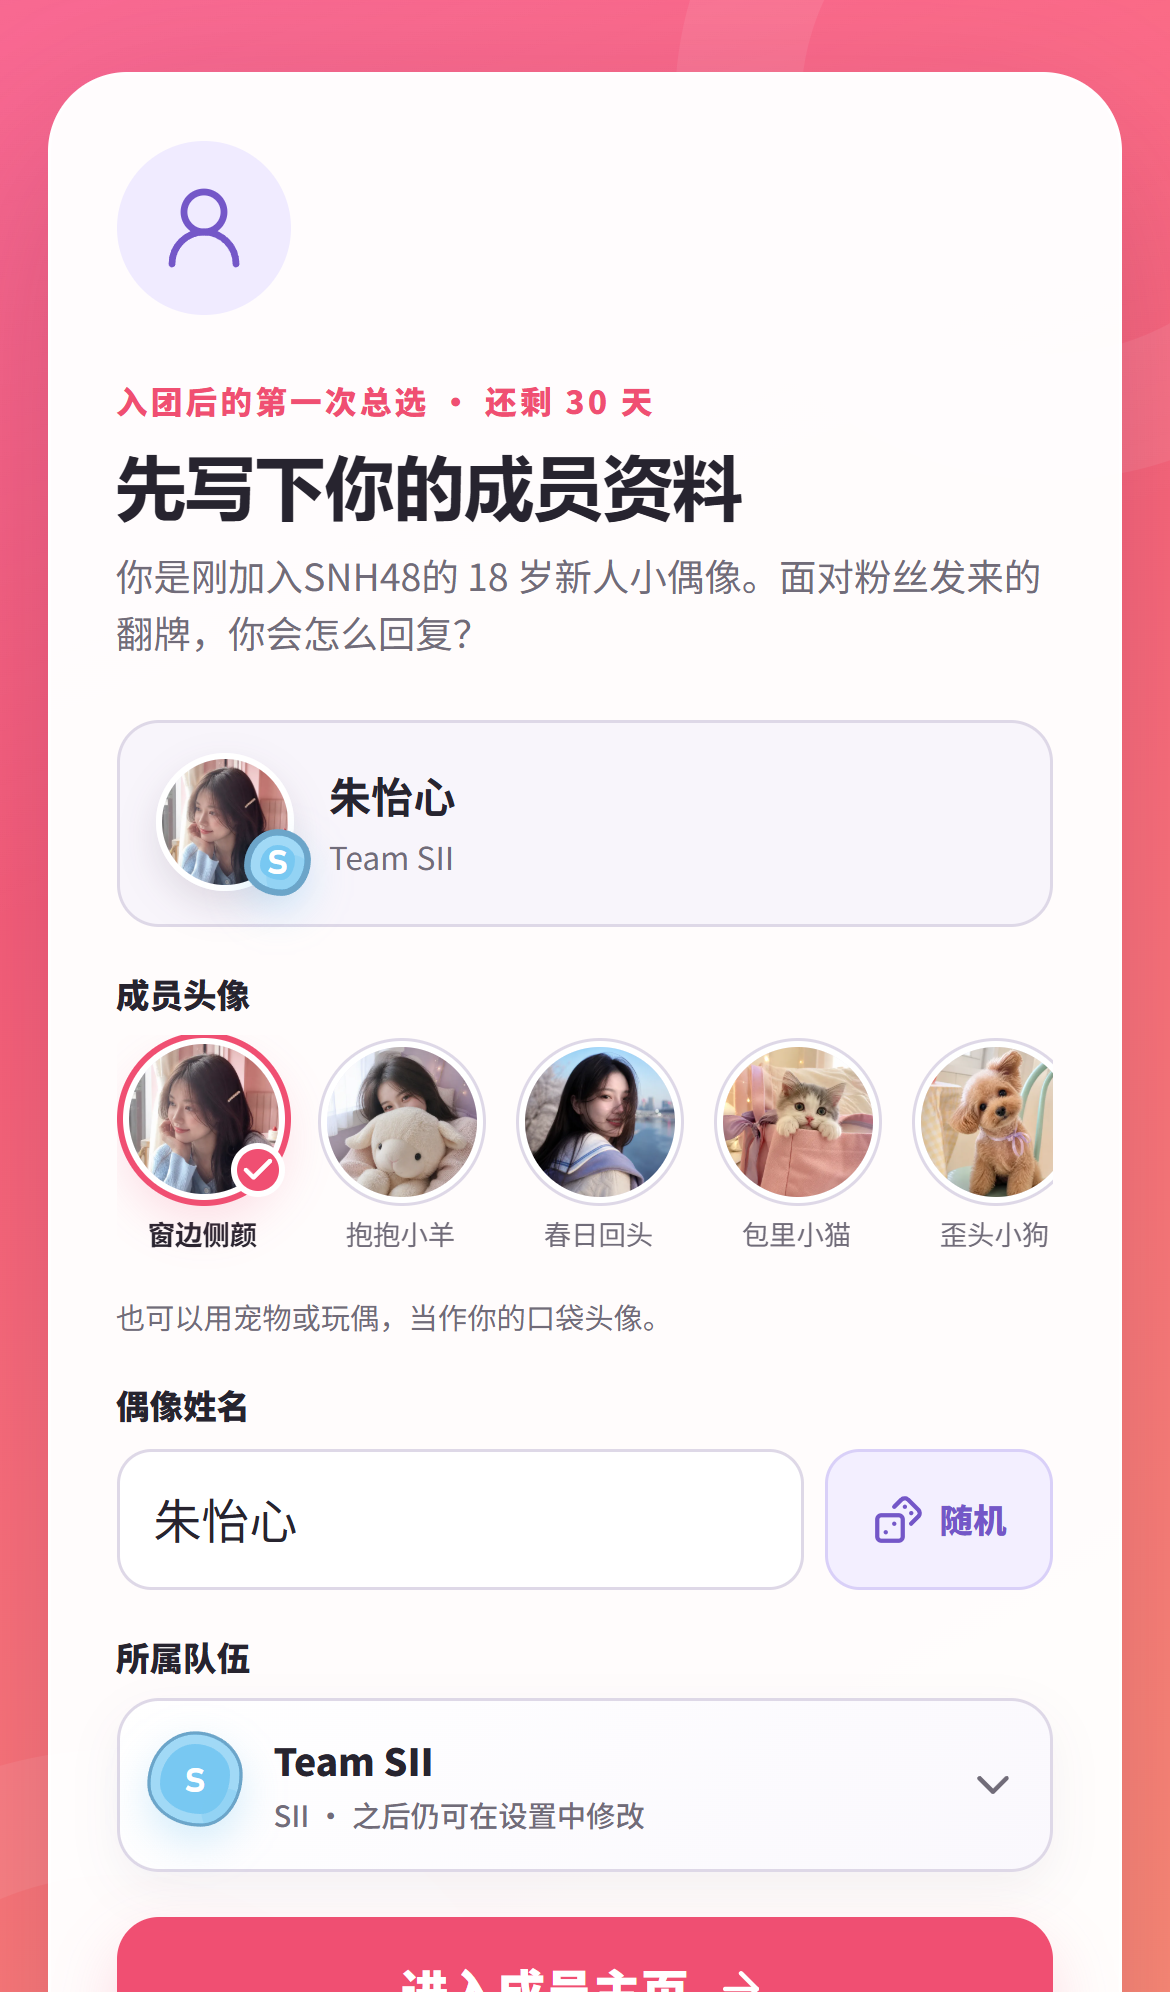
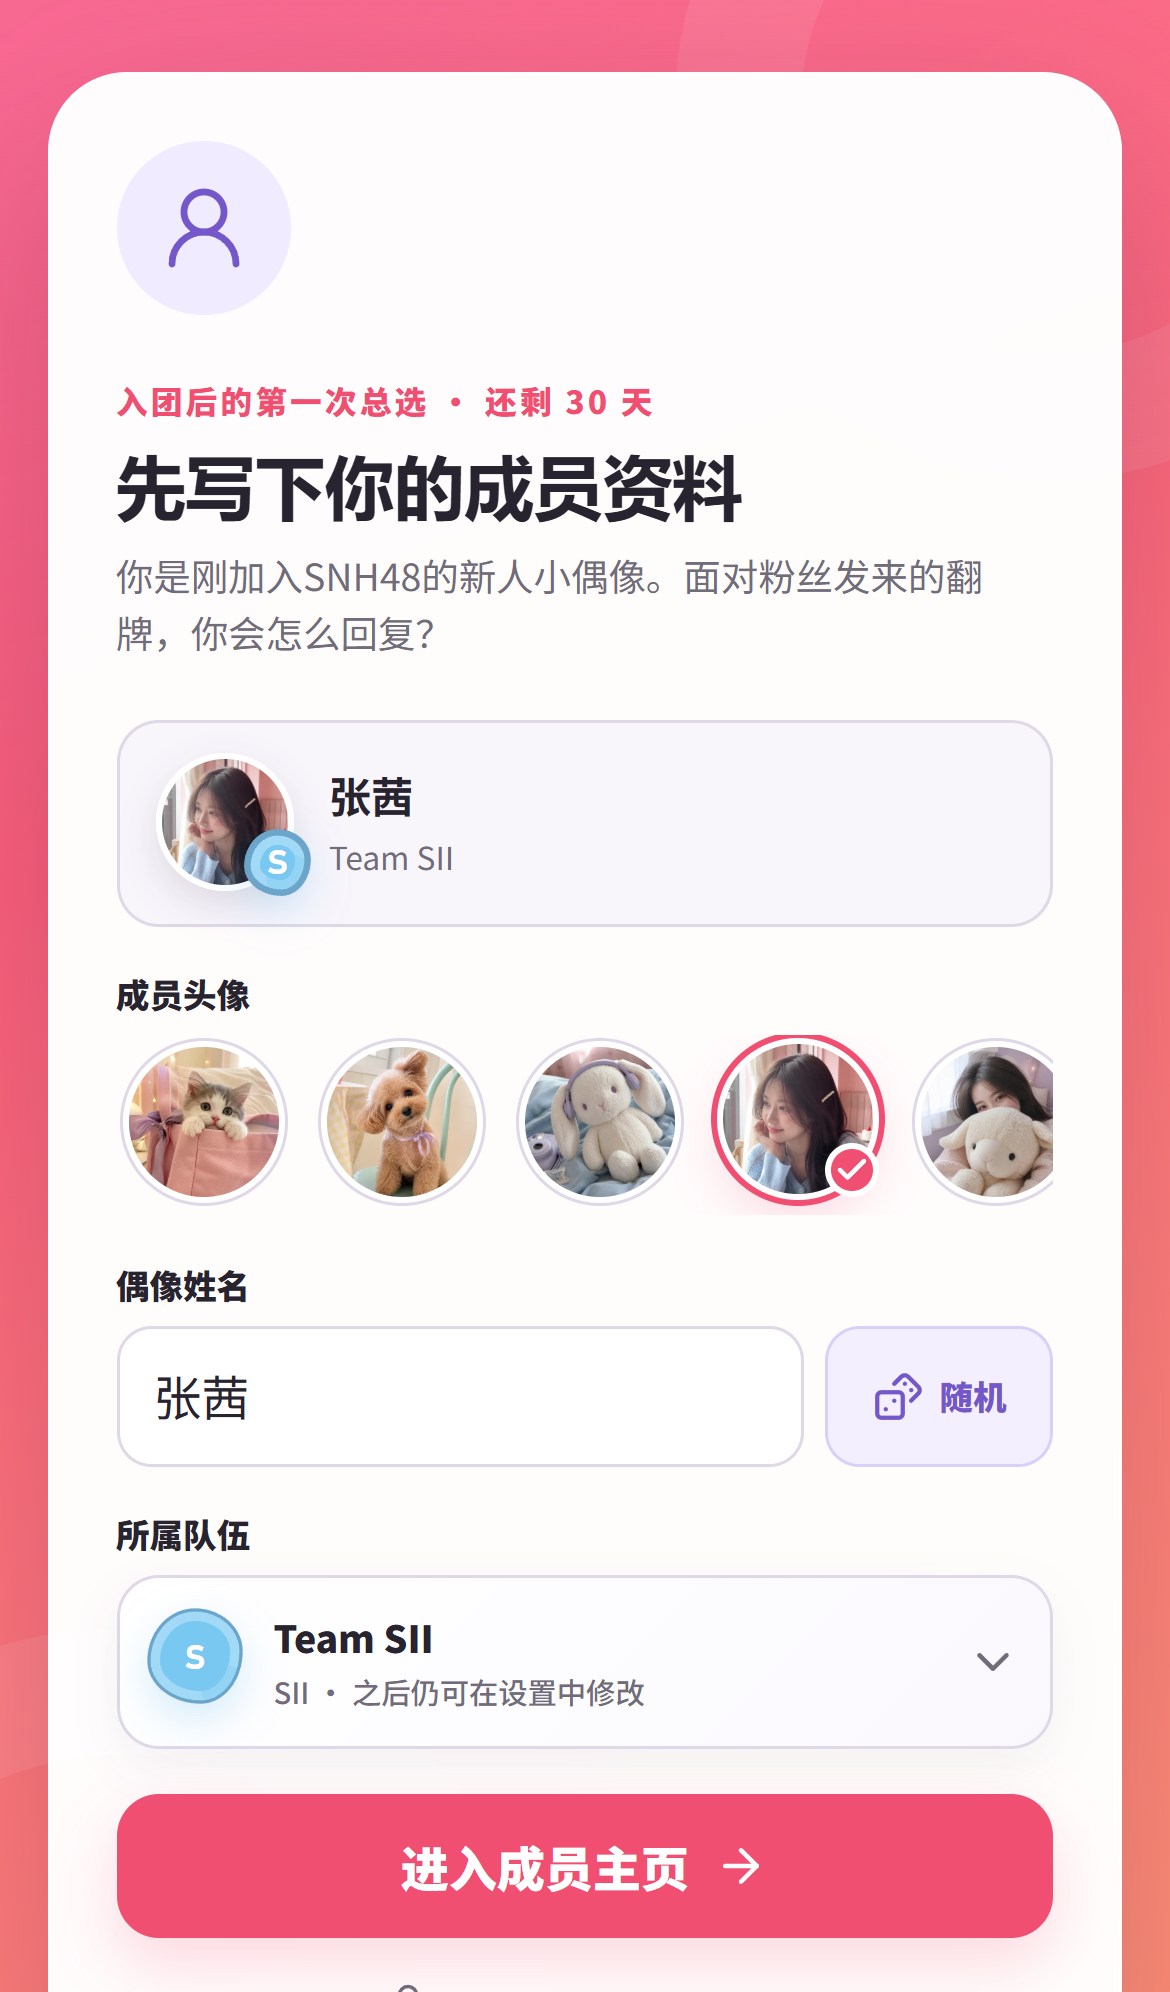
refactor(ui): simplify initial profile setup

diff --git a/tests/e2e/game.spec.ts b/tests/e2e/game.spec.ts
@@ -31,7 +31,7 @@ async function completeProfileSetup(page: Page, idolName = DEFAULT_IDOL_NAME) {
     '入团后的第一次总选 · 还剩 30 天',
   );
   await expect(page.locator('.profile-setup-card > p')).toHaveText(
-    `你是刚加入${testStoryJson.globalVariables.groupName}的 18 岁新人小偶像。面对粉丝发来的翻牌，你会怎么回复？`,
+    `你是刚加入${testStoryJson.globalVariables.groupName}的新人小偶像。面对粉丝发来的翻牌，你会怎么回复？`,
   );
   await page.screenshot({ path: 'artifacts/playtest/game-profile-setup-mobile.png' });
   await page.getByRole('textbox', { name: '偶像姓名', exact: true }).fill(idolName);
@@ -68,7 +68,14 @@ test('first entry creates a persistent member profile that remains editable in s
   });
   const teamCombobox = page.getByRole('combobox', { name: '所属队伍' });
   await expect(page.locator('.team-picker__marks')).toHaveCount(0);
-  await expect(page.getByRole('radio')).toHaveCount(6);
+  const avatarRadios = page.getByRole('radio');
+  await expect(avatarRadios).toHaveCount(6);
+  const avatarNames = ['包里小猫', '歪头小狗', '耳机兔兔', '窗边侧颜', '抱抱小羊', '春日回头'];
+  for (const [index, avatarName] of avatarNames.entries()) {
+    await expect(avatarRadios.nth(index)).toHaveAccessibleName(avatarName);
+  }
+  await expect(page.locator('.profile-avatar-option > small')).toHaveCount(0);
+  await expect(page.locator('.profile-avatar-field__hint')).toHaveCount(0);
   await page.getByRole('radio', { name: '包里小猫' }).check();
   await expect(page.locator('.profile-form__preview img')).toHaveAttribute(
     'src',

diff --git a/apps/game/src/profile-avatars.ts b/apps/game/src/profile-avatars.ts
@@ -8,21 +8,6 @@ export interface ProfileAvatarOption {
 
 export const PROFILE_AVATARS: readonly ProfileAvatarOption[] = [
   {
-    id: 'cafe',
-    src: publicAssetSrc('/assets/avatars/profile-cafe.webp', import.meta.env.BASE_URL),
-    label: '窗边侧颜',
-  },
-  {
-    id: 'lamb',
-    src: publicAssetSrc('/assets/avatars/profile-lamb.webp', import.meta.env.BASE_URL),
-    label: '抱抱小羊',
-  },
-  {
-    id: 'breeze',
-    src: publicAssetSrc('/assets/avatars/profile-breeze.webp', import.meta.env.BASE_URL),
-    label: '春日回头',
-  },
-  {
     id: 'kitten',
     src: publicAssetSrc('/assets/avatars/profile-kitten.webp', import.meta.env.BASE_URL),
     label: '包里小猫',
@@ -37,9 +22,24 @@ export const PROFILE_AVATARS: readonly ProfileAvatarOption[] = [
     src: publicAssetSrc('/assets/avatars/profile-bunny.webp', import.meta.env.BASE_URL),
     label: '耳机兔兔',
   },
+  {
+    id: 'cafe',
+    src: publicAssetSrc('/assets/avatars/profile-cafe.webp', import.meta.env.BASE_URL),
+    label: '窗边侧颜',
+  },
+  {
+    id: 'lamb',
+    src: publicAssetSrc('/assets/avatars/profile-lamb.webp', import.meta.env.BASE_URL),
+    label: '抱抱小羊',
+  },
+  {
+    id: 'breeze',
+    src: publicAssetSrc('/assets/avatars/profile-breeze.webp', import.meta.env.BASE_URL),
+    label: '春日回头',
+  },
 ];
 
-export const DEFAULT_PROFILE_AVATAR_ID = PROFILE_AVATARS[0]!.id;
+export const DEFAULT_PROFILE_AVATAR_ID = 'cafe';
 
 export function profileAvatarForId(id?: string): ProfileAvatarOption {
   return PROFILE_AVATARS.find((avatar) => avatar.id === id) ?? PROFILE_AVATARS[0]!;

diff --git a/apps/game/src/App.tsx b/apps/game/src/App.tsx
@@ -465,6 +465,7 @@ function ProfileForm({
                 type="radio"
                 name={`${idPrefix}-avatar`}
                 value={avatar.id}
+                aria-label={avatar.label}
                 checked={avatar.id === selectedAvatar.id}
                 onChange={() => setAvatarId(avatar.id)}
               />
@@ -474,11 +475,9 @@ function ProfileForm({
                   <Check size={12} strokeWidth={3} />
                 </span>
               </span>
-              <small>{avatar.label}</small>
             </label>
           ))}
         </div>
-        <small className="profile-avatar-field__hint">也可以用宠物或玩偶，当作你的口袋头像。</small>
       </fieldset>
 
       <div className="profile-field">
@@ -570,7 +569,7 @@ function ProfileSetupScreen({
           入团后的第一次总选 · 还剩 {pack.config.totalDays} 天
         </span>
         <h1 id="profile-setup-title">先写下你的成员资料</h1>
-        <p>你是刚加入{groupName}的 18 岁新人小偶像。面对粉丝发来的翻牌，你会怎么回复？</p>
+        <p>你是刚加入{groupName}的新人小偶像。面对粉丝发来的翻牌，你会怎么回复？</p>
         <ProfileForm
           pack={pack}
           idPrefix="onboarding"

diff --git a/apps/game/src/styles/game.css b/apps/game/src/styles/game.css
@@ -178,16 +178,14 @@
   grid-auto-flow: column;
   gap: 0.5rem;
   overflow-x: auto;
-  padding: 0.12rem 0.12rem 0.42rem;
+  padding: 0.12rem 0.12rem 0.24rem;
   scroll-snap-type: x proximity;
 }
 
 .profile-avatar-option {
   position: relative;
   display: grid;
-  gap: 0.25rem;
   justify-items: center;
-  color: var(--color-muted);
   cursor: pointer;
   scroll-snap-align: start;
 }
@@ -267,26 +265,6 @@
 
 .profile-avatar-option:hover .profile-avatar-option__image {
   transform: translateY(-1px);
-}
-
-.profile-avatar-option > small {
-  width: 100%;
-  overflow: hidden;
-  font-size: 0.57rem;
-  text-align: center;
-  text-overflow: ellipsis;
-  white-space: nowrap;
-}
-
-.profile-avatar-option:has(> input:checked) {
-  color: var(--color-ink);
-  font-weight: 750;
-}
-
-.profile-avatar-field__hint {
-  color: var(--color-muted);
-  font-size: 0.61rem;
-  line-height: 1.45;
 }
 
 .profile-field {
@@ -1313,10 +1291,6 @@
 .profile-form--compact .profile-form__preview > span {
   width: 36px;
   height: 36px;
-}
-
-.profile-form--compact .profile-avatar-field__hint {
-  display: none;
 }
 
 .profile-form--compact .profile-avatar-options {

diff --git a/UX-CONTRACT.md b/UX-CONTRACT.md
@@ -89,7 +89,7 @@ The player application suppresses document text selection and the browsing/inser
 
 - Products and titles: the deployed game owns `成员口袋 — 工作台`; the local editor owns `剧情工坊 — Clip Simulator`.
 - The game and editor are separate Vite applications and separate build outputs. Neither links to or routes into the other.
-- A first visit without a valid local `PlayerProfile` opens identity setup before the member profile. The form starts with a six-choice native-radio avatar filmstrip, then a content-pack name suggestion, lets the player type or request another constrained-random name from `profileSetup.namePools`, and chooses one `profileSetup.teams` entry through an authored Select. The avatar set is app-owned and bundled: three original everyday fictional-idol portraits plus kitten, puppy, and plush-toy alternatives, with no stage photography, external hotlinks, or specific real-person identity. The first avatar is the backward-compatible default. The team trigger shows only the selected content-defined team mark; the equal-width popup presents every team without a redundant preview rail. The first three suggestions in one form session use the adapted pool; the automatic first-visit suggestion counts as the first. When both pools contain names, later aligned five-suggestion groups shuffle exactly two adapted and three original sources; when the original pool is empty, every request falls back to adapted. The current test pack uses only 70 adapted names, one fictionalized candidate per active member in the four-team SNH48 roster snapshot. Existing-profile settings do not draw until the random button is pressed, and closing a form ends that cosmetic suggestion sequence. Source categories stay invisible to players and never enter profile or run state. Above the form, one short premise identifies the player as a new fictional 48 idol, derives the first-election countdown from `config.totalDays`, and asks how she will answer fan flips; it does not expand resources, affinity, votes, or other rules. A returning player with a valid profile skips setup and opens the fictional member profile/workbench. Clicking “翻牌” directly resumes a playing save or creates a new run from the saved display preference. Identity editing, mode selection, and “放弃进度，从头开始” live in the member settings sheet.
+- A first visit without a valid local `PlayerProfile` opens identity setup before the member profile. The form starts with a six-choice native-radio avatar filmstrip, then a content-pack name suggestion, lets the player type or request another constrained-random name from `profileSetup.namePools`, and chooses one `profileSetup.teams` entry through an authored Select. The avatar set is app-owned and bundled: kitten, puppy, and plush-toy choices render first, followed by three original everyday fictional-idol portraits, with no stage photography, external hotlinks, or specific real-person identity. The circular choices expose accessible names but no visible caption or explanatory row; the café portrait remains the backward-compatible default independent of display order. The team trigger shows only the selected content-defined team mark; the equal-width popup presents every team without a redundant preview rail. The first three suggestions in one form session use the adapted pool; the automatic first-visit suggestion counts as the first. When both pools contain names, later aligned five-suggestion groups shuffle exactly two adapted and three original sources; when the original pool is empty, every request falls back to adapted. The current test pack uses only 70 adapted names, one fictionalized candidate per active member in the four-team SNH48 roster snapshot. Existing-profile settings do not draw until the random button is pressed, and closing a form ends that cosmetic suggestion sequence. Source categories stay invisible to players and never enter profile or run state. Above the form, one short premise identifies the player as a new fictional 48 idol without stating an age, derives the first-election countdown from `config.totalDays`, and asks how she will answer fan flips; it does not expand resources, affinity, votes, or other rules. A returning player with a valid profile skips setup and opens the fictional member profile/workbench. Clicking “翻牌” directly resumes a playing save or creates a new run from the saved display preference. Identity editing, mode selection, and “放弃进度，从头开始” live in the member settings sheet.
 - The first-visit team popup portals to the document overlay layer. The settings variant portals to the modal dialog but outside its `.settings-sheet__content` scroll owner, so Radix focus management cannot change the page or sheet scroll position when the popup opens or closes.
 
 - Story-node trigger conditions are evaluated at initial day setup and when a later day begins by default. The day-start order is: advance the numbered day, expire overdue pending flips and apply their effects, apply the scheduled turn event and recovery, then activate every dated/unlocked node whose trigger expression passes. A choice with `nextNodeTiming: "immediate"` is the sole story-node exception: after that reply's effects are applied, the engine checks only its explicit `nextNodeId` and adds it to the pending feed when `postedDay <= currentDay` and the target trigger passes. An ineligible target stays unlocked for a later day-start check; unrelated roots and conditional nodes do not activate mid-day. Ordering takeout does not inject ordinary story nodes. The configured takeout early-ending threshold remains an independent immediate ending rule.

diff --git a/DESIGN.md b/DESIGN.md
@@ -83,7 +83,7 @@ The player surface is non-editable except for the member-name field in first-vis
 
 ## Layout
 
-The game is designed from 390 CSS pixels upward, uses safe-area padding, and caps its phone surface near 460 pixels on desktop. When no valid local `PlayerProfile` exists, the entry route is a one-column identity setup page with a compact first-election premise, live member preview, a horizontally scrollable six-choice avatar filmstrip, editable name, adjacent random-name action, bounded authored team select, and one primary “进入成员主页” commit. The filmstrip mixes three original everyday idol portraits with three original pet/toy portraits; it stays a native radio group and never becomes a separate onboarding step. The premise derives its day count from the active story pack and replaces mechanical help copy rather than adding a second onboarding panel. Later visits go directly to the member profile header, account stats, collection row, two-column workbench, and viewport-fixed pocket-style bottom tab bar. Its player-facing surfaces stay in one light theme; the dark production-desk theme belongs only to the separately built editor. The bottom tab bar uses the main account surface, while the workbench surface grows behind it to absorb any remaining viewport height without moving the workbench content. “翻牌” enters the reply inbox immediately, starting or resuming locally as needed; identity editing, display mode, and restart live in the member settings sheet. Restarting a run never removes the member identity. The three unavailable workbench cards remain visibly defocused and non-interactive.
+The game is designed from 390 CSS pixels upward, uses safe-area padding, and caps its phone surface near 460 pixels on desktop. When no valid local `PlayerProfile` exists, the entry route is a one-column identity setup page with a compact first-election premise, live member preview, a horizontally scrollable six-choice avatar filmstrip, editable name, adjacent random-name action, bounded authored team select, and one primary “进入成员主页” commit. The filmstrip leads with the kitten, puppy, and plush-toy choices, followed by three original everyday idol portraits; its circular images have accessible radio names but no visible caption or explanatory row. It stays a native radio group and never becomes a separate onboarding step. The premise derives its day count from the active story pack, identifies the player only as a new fictional idol without stating an age, and replaces mechanical help copy rather than adding a second onboarding panel. Later visits go directly to the member profile header, account stats, collection row, two-column workbench, and viewport-fixed pocket-style bottom tab bar. Its player-facing surfaces stay in one light theme; the dark production-desk theme belongs only to the separately built editor. The bottom tab bar uses the main account surface, while the workbench surface grows behind it to absorb any remaining viewport height without moving the workbench content. “翻牌” enters the reply inbox immediately, starting or resuming locally as needed; identity editing, display mode, and restart live in the member settings sheet. Restarting a run never removes the member identity. The three unavailable workbench cards remain visibly defocused and non-interactive.
 
 The flip page header keeps the run horizon visible without adding another meter: its right edge reads “离总选结束还剩 X 天”, where `X` is the configured total run days minus the current game day and never drops below zero.
 
